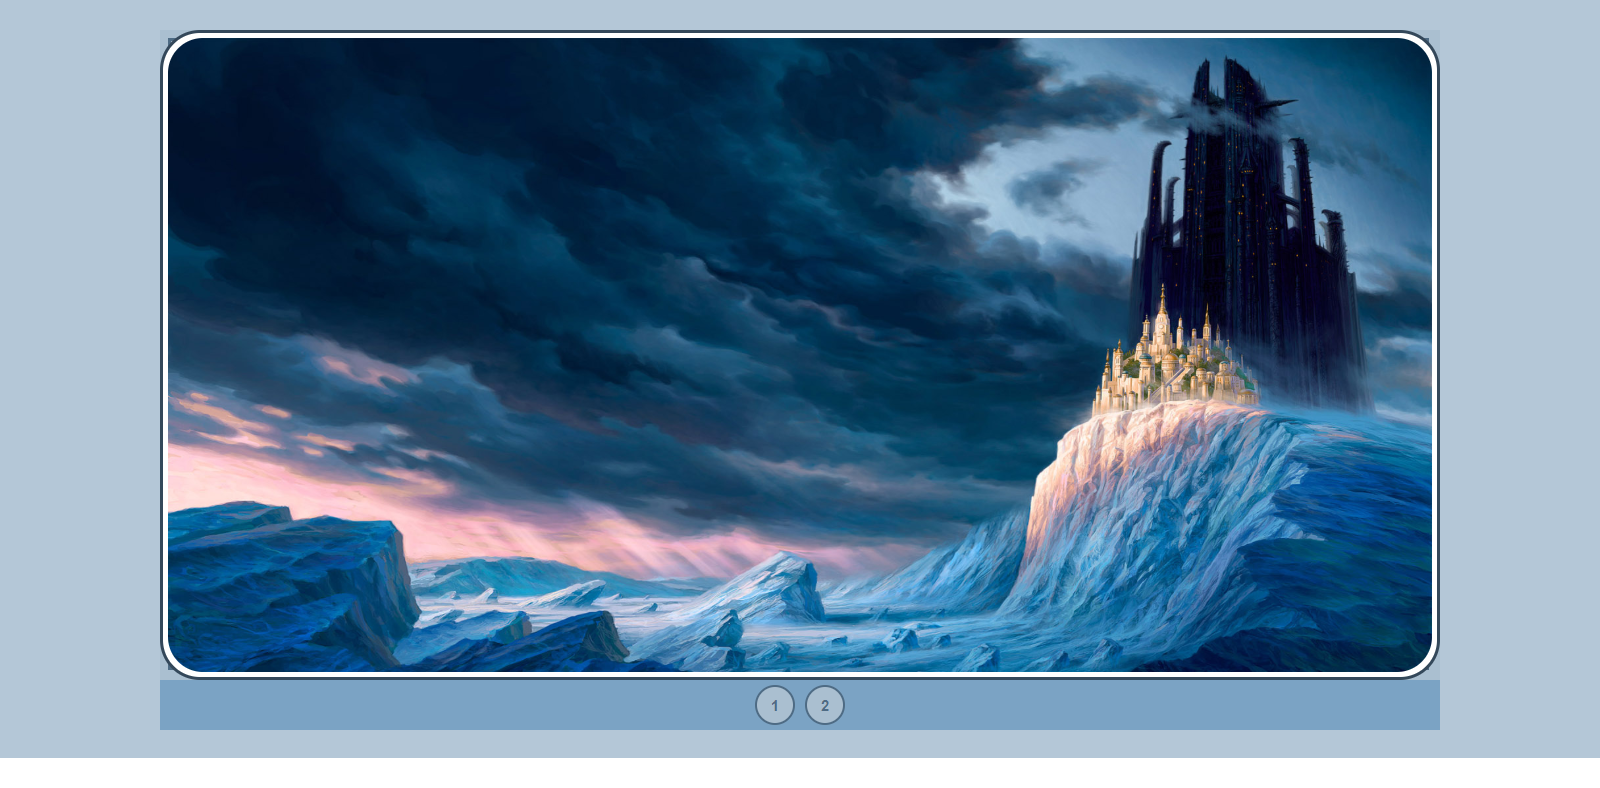
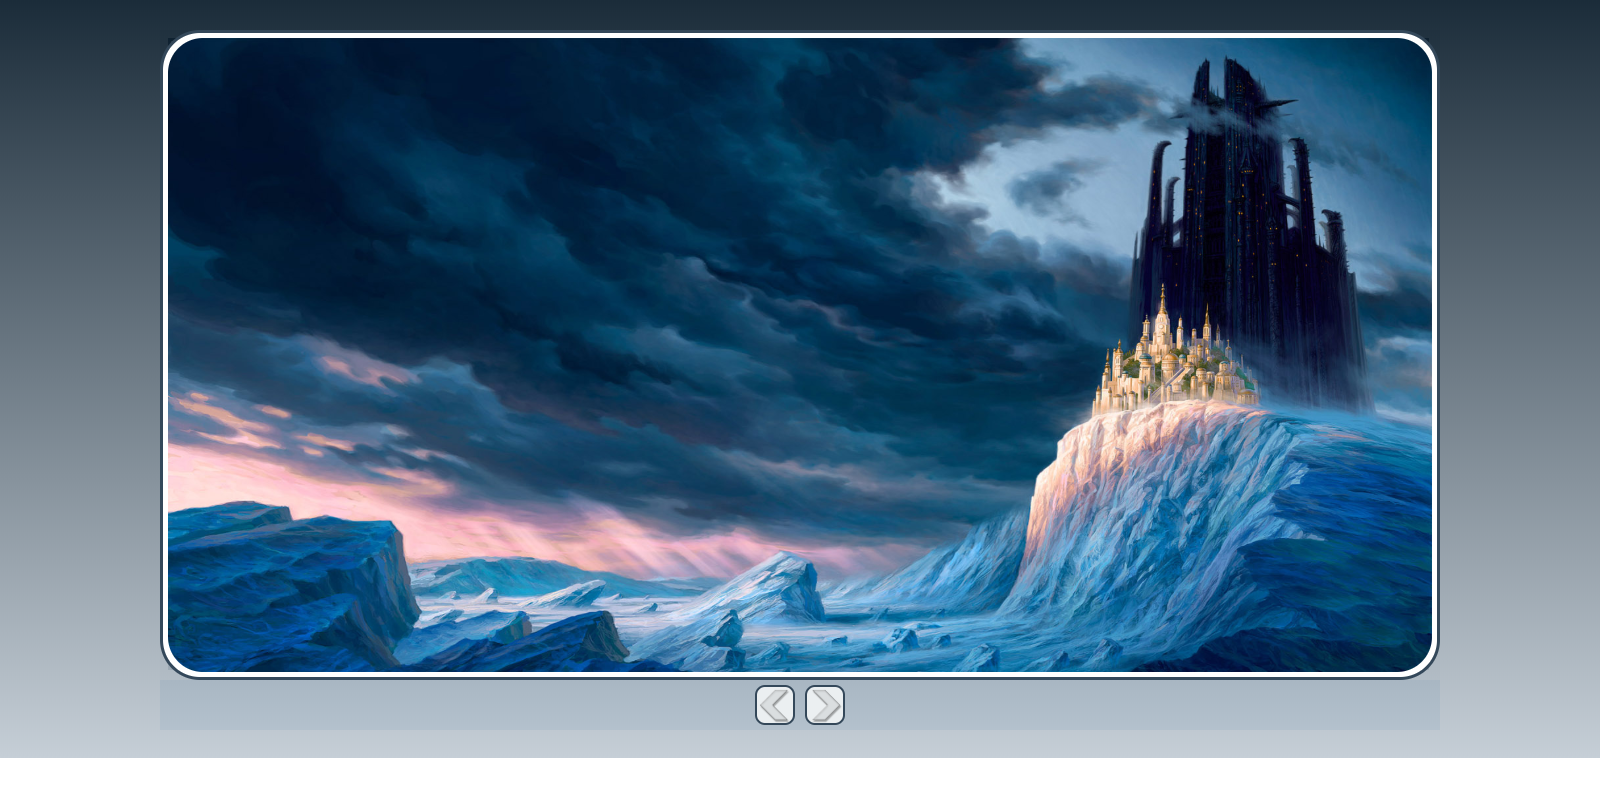
Finish Slider

Changed region(s): [[0.0, 0.0, 1.0, 0.8223], [0.0938, 0.8528, 0.9062, 0.9442]]

diff --git a/JavaScript.js b/JavaScript.js
@@ -1,11 +1,12 @@
 var pic = 15; // Total number of images in database.
 var number = 12; // Only Display 12 images in webpage.
-var start = 1, end = 12;
+var start = 1, end = number;
 var repeation = pic / number; // Total images divided by 12.
 
 var main = document.querySelector(".main"); // Select main box for clear old appendChild.
 var glassScreen = document.querySelector(".glassScreen"); // Select glass class for do operation.
 var display = document.querySelector(".display"); // Select display class for display big image.
+var displaybutton = document.querySelector(".display-button"); // Select display-button class for hide arrow button
 
 function clearsmallimage(main) { // Clear firstchild of main class.
     while (main.hasChildNodes()) {
@@ -43,7 +44,7 @@ function numberButtonClick(text) {
 
     for (i = 1; i <= text; i++) {
         start = j;
-        j = j + 12;
+        j = j + number;
         end = number * text;
         if (end > pic) {
             end = pic;
@@ -58,8 +59,10 @@ function imageclick(value) { // Click on small image to display particular image
 
     glassScreen.style.display = "block";
     display.style.display = "block";
+    displaybutton.style.display = "block";
 
     var displayimg = document.createElement("img");
+    displayimg.value = value;
     displayimg.src = "Images/" + [value] + ".JPG";
     displayimg.alt = "Images/16.jpg";
     displayimg.setAttribute("class", "image");
@@ -75,7 +78,46 @@ for (i = 0; i <= repeation; i++) { // It is for display below number buttons to 
     document.querySelector(".button-div").appendChild(button);
 }
 
+function arrow(value)
+{
+  var bigimage = document.querySelector("#bigimage"); // To slide images
+
+  if(value === "left")
+  {
+    for(i = start ; i <= pic ; i++)
+    {
+      if(bigimage.value === start)
+      {
+        bigimage.value = pic;
+      }
+      if(bigimage.value === i)
+      {
+        bigimage.src = "Images/" + [bigimage.value - 1] + ".JPG";
+      }
+    }
+    bigimage.value = bigimage.value - 1;
+    console.log(bigimage.value);
+  }
+  else {
+    for(i = start ; i <= pic ; i++)
+    {
+      if(bigimage.value === pic)
+      {
+        bigimage.value = 1;
+      }
+      if(bigimage.value === i)
+      {
+        bigimage.src = "Images/" + [bigimage.value + 1] + ".JPG";
+      }
+    }
+    bigimage.value = bigimage.value + 1;
+    console.log(bigimage.value);
+  }
+
+}
+
 function hide() { // Hide big large box.
     glassScreen.style.display = "none";
     display.style.display = "none";
+    displaybutton.style.display = "none";
 }

diff --git a/Css.css b/Css.css
@@ -15,7 +15,7 @@ body{
 
 .main{
     width:80%;
-    height:650px;
+    min-height:650px;
     margin: auto;
     margin-top: 30px;
     background-color: rgb(235, 239, 241);
@@ -58,8 +58,8 @@ body{
   position: absolute;
   top: 0px;
   left: 0px;
-  background-color: #688faf;
-  opacity: 0.5;
+  background-image: linear-gradient(#011423 , #bfc9d2);
+  opacity: 0.9;
   display:none;
 }
 
@@ -80,4 +80,37 @@ body{
   background-color: white;
   border-radius: 40px;
   display:none;
+}
+
+.display-button{
+  width: 80%;
+  height: 50px;
+  position: absolute;
+  top: 89.7%;
+  left: 10%;
+  display:none;
+}
+
+.glassbutton{
+  width: 40px;
+  height: 40px;
+  margin: 5px;
+  background-color: #ebeff1;
+  border: 2px solid #34485a;
+  border-radius: 10px;
+}
+
+.display-flex{
+  display: flex;
+  justify-content: center;
+}
+
+#buttonleft{
+  background-image: url("LeftArrow.png");
+  background-size: 100% 100%;
+}
+
+#buttonright{
+  background-image: url("RightArrow.png");
+  background-size: 100% 100%;
 }

diff --git a/Index.html b/Index.html
@@ -14,7 +14,13 @@
     <div class="button-div"></div>
     <div class="glassScreen" onclick="hide()"></div>
     <div class="display"></div>
-    <script src="Js.js"></script>
+    <div class="display-button">
+      <div class="display-flex">
+        <div class="glassbutton" id="buttonleft" onclick="arrow('left')"></div>
+        <div class="glassbutton" id="buttonright" onclick="arrow('right')"></div>
+      </div>
+    </div>
+    <script src="JavaScript.js"></script>
 </body>
 
 </html>
